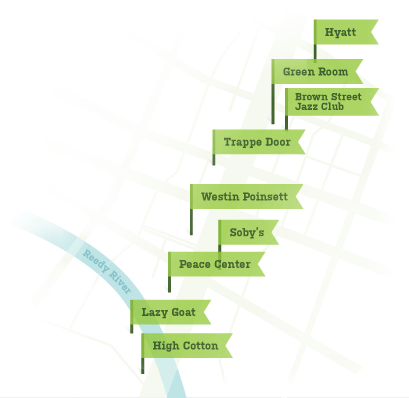
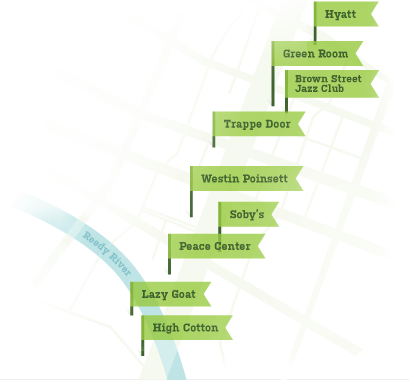
cropped illo

Changed region(s): [[0.4108, 0.0, 0.9389, 0.6947], [0.088, 0.55, 0.5868, 0.8974]]

diff --git a/views/stylesheets/visit.scss b/views/stylesheets/visit.scss
@@ -38,7 +38,7 @@ body.visit{
 			color: #98c642;
 		}
 		img#map {
-			width: 398px;
+			width: 380px;
 			height: 409px;
 			border: none;
       margin-top: 0;
